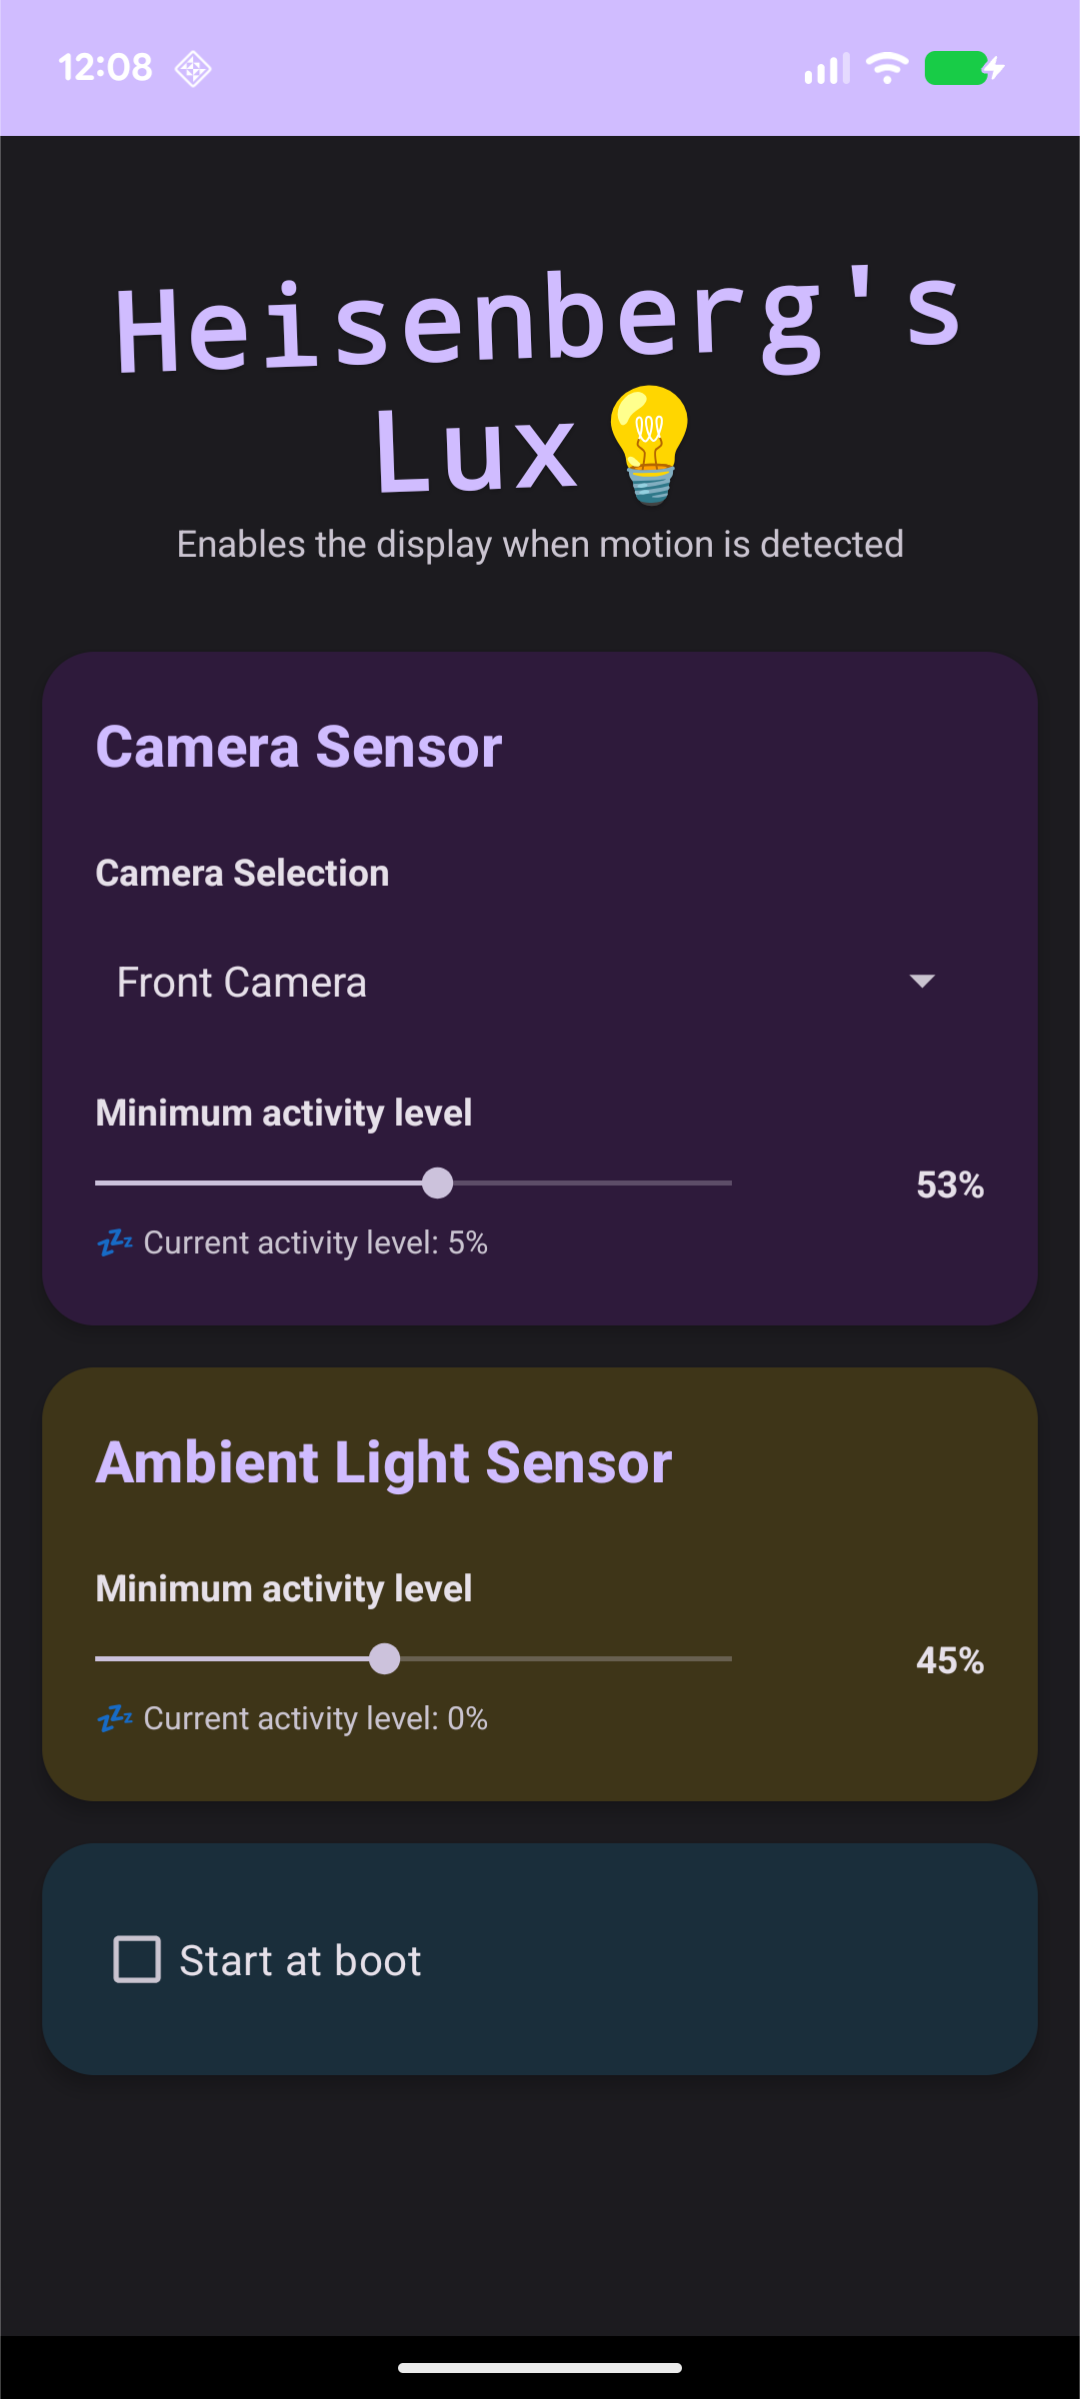
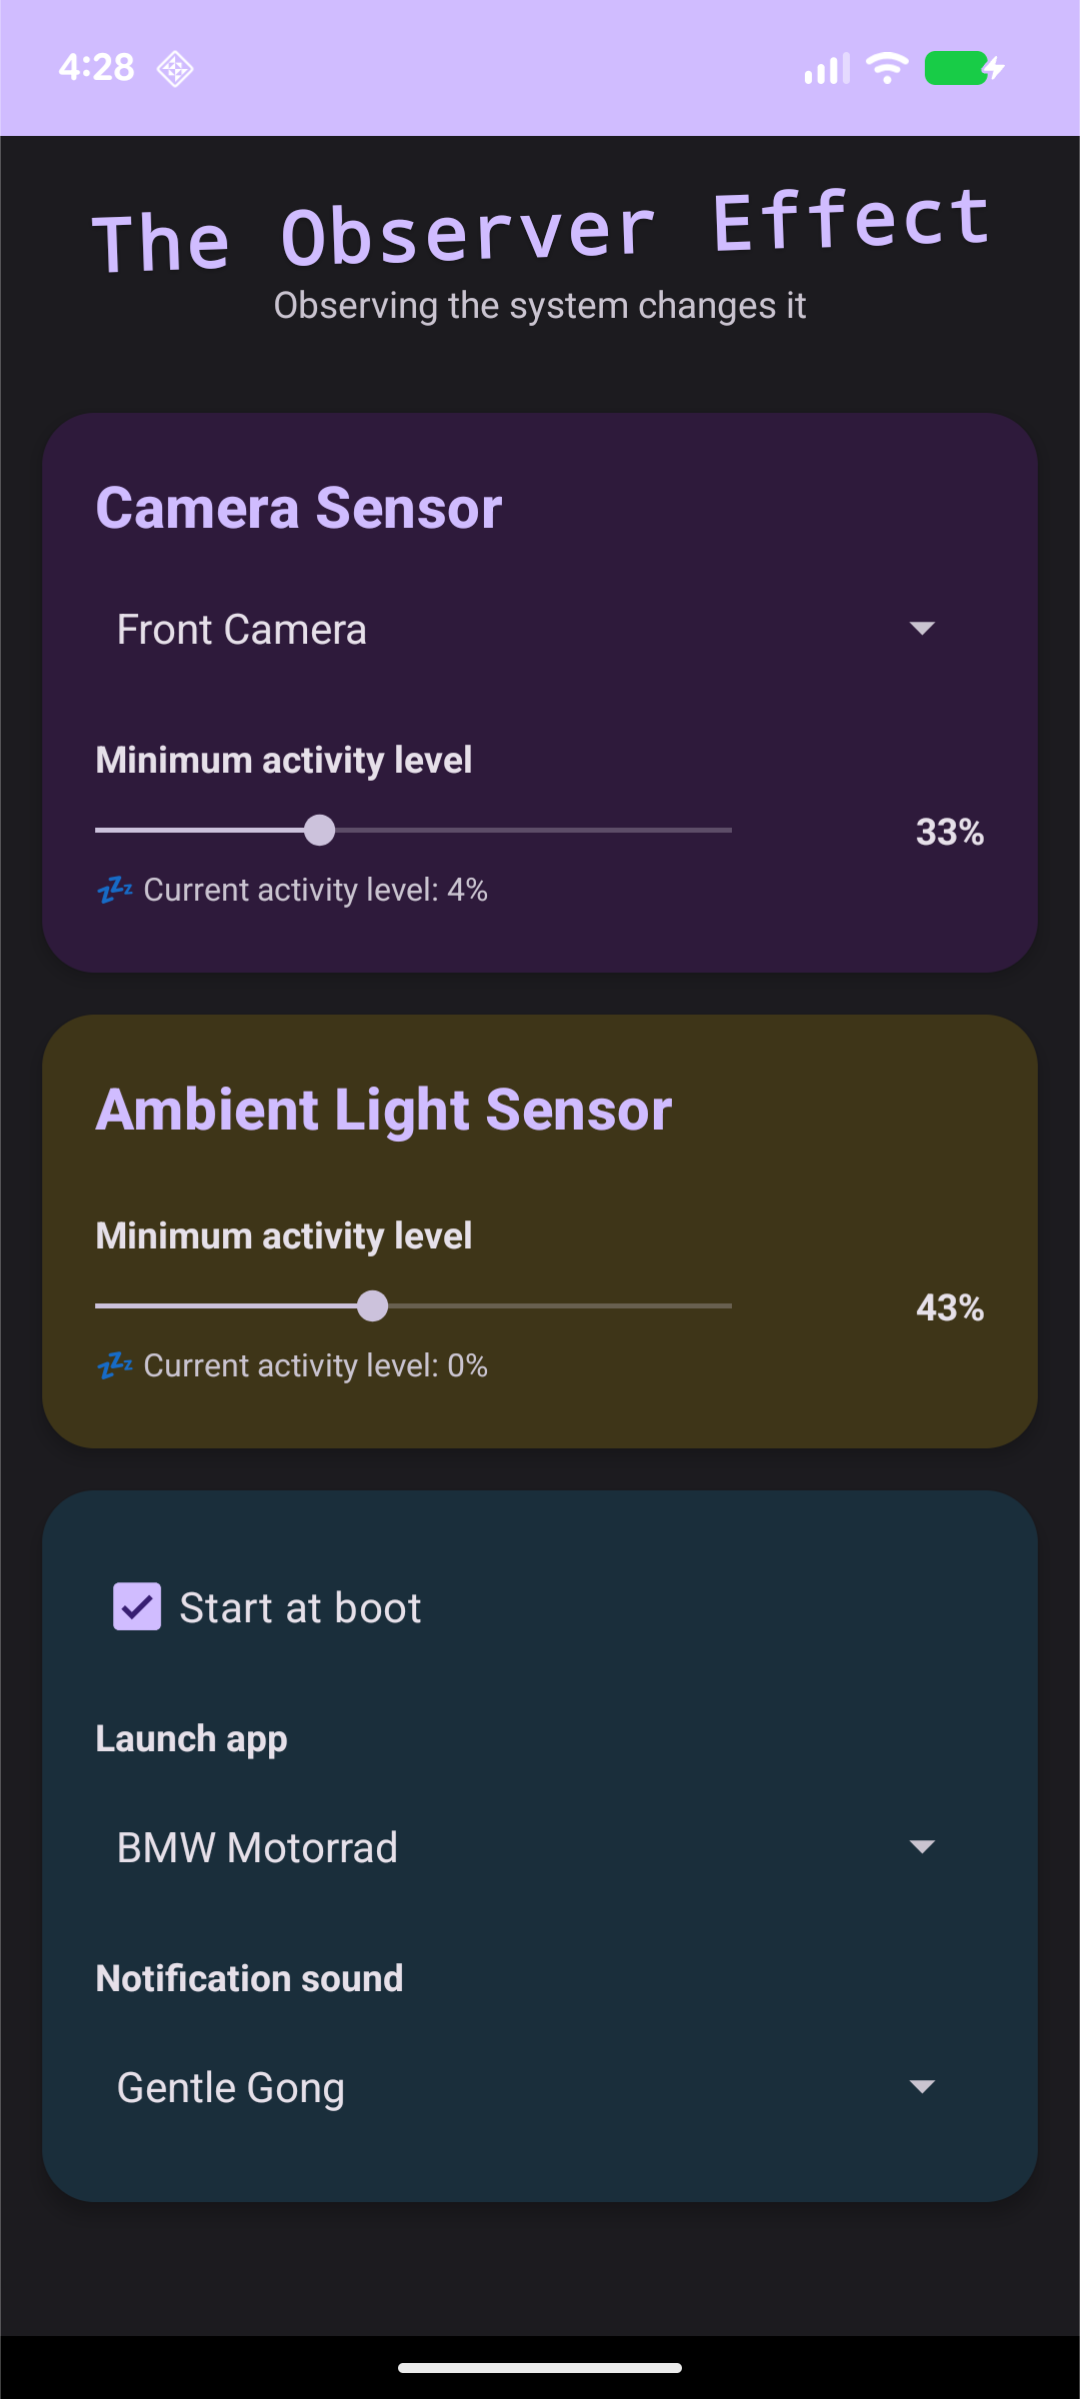
Rename to The Observer Effect

diff --git a/app/src/main/kotlin/com/heisenberg/lux/MainActivity.kt b/app/src/main/kotlin/com/heisenberg/lux/MainActivity.kt
@@ -65,7 +65,7 @@ class MainActivity : AppCompatActivity() {
 
         prefs = getSharedPreferences(PREFS_NAME, MODE_PRIVATE)
 
-        // On first run, detect and save default camera (but keep sensitivity at 0 for safety)
+        // On first run, detect and save defaults (but keep sensitivity at 0 for safety)
         val isFirstRun = !prefs.contains(KEY_CAMERA_SELECTION)
         if (isFirstRun) {
             val defaultCamera = getDefaultCamera()
@@ -78,8 +78,8 @@ class MainActivity : AppCompatActivity() {
         val cameraSensitivity = prefs.getInt(KEY_CAMERA_SENSITIVITY, 0)
         val lightSensitivity = prefs.getInt(KEY_LIGHT_SENSITIVITY, 0)
         val startAtBoot = prefs.getBoolean(KEY_START_AT_BOOT, false)
-        val unlockScreen = prefs.getBoolean(KEY_BYPASS_LOCK_SCREEN, true)
         val launchApp = prefs.getString(KEY_LAUNCH_APP, "") ?: ""
+        val notificationSound = prefs.getString(KEY_NOTIFICATION_SOUND, "") ?: ""
 
         with(binding) {
             // Setup camera spinner
@@ -198,13 +198,6 @@ class MainActivity : AppCompatActivity() {
                 Log.i(TAG, "Start at boot set to $isChecked")
             }
 
-            // Setup unlock screen checkbox
-            unlockScreenCheckbox?.isChecked = unlockScreen
-            unlockScreenCheckbox?.setOnCheckedChangeListener { _, isChecked ->
-                prefs.edit().putBoolean(KEY_BYPASS_LOCK_SCREEN, isChecked).apply()
-                Log.i(TAG, "Unlock screen set to $isChecked")
-            }
-
             // Setup launch app spinner
             val installedApps = getLaunchableApps()
             val appNames = mutableListOf(getString(R.string.launch_app_none))
@@ -233,6 +226,39 @@ class MainActivity : AppCompatActivity() {
                         val selectedPackage = appPackages[position]
                         prefs.edit().putString(KEY_LAUNCH_APP, selectedPackage).apply()
                         Log.i(TAG, "Launch app set to $selectedPackage")
+                    }
+
+                    override fun onNothingSelected(parent: AdapterView<*>?) {}
+                }
+
+            // Setup notification sound spinner
+            val notificationSounds = getNotificationSounds()
+            val soundNames = mutableListOf(getString(R.string.notification_sound_none))
+            val soundUris = mutableListOf("")
+            notificationSounds.forEach { (name, uri) ->
+                soundNames.add(name)
+                soundUris.add(uri)
+            }
+
+            val soundAdapter = ArrayAdapter(this@MainActivity, android.R.layout.simple_spinner_item, soundNames)
+            soundAdapter.setDropDownViewResource(android.R.layout.simple_spinner_dropdown_item)
+            notificationSoundSpinner?.adapter = soundAdapter
+
+            // Set current selection
+            val currentSoundIndex = soundUris.indexOf(notificationSound).coerceAtLeast(0)
+            notificationSoundSpinner?.setSelection(currentSoundIndex)
+
+            notificationSoundSpinner?.onItemSelectedListener =
+                object : AdapterView.OnItemSelectedListener {
+                    override fun onItemSelected(
+                        parent: AdapterView<*>?,
+                        view: View?,
+                        position: Int,
+                        id: Long,
+                    ) {
+                        val selectedUri = soundUris[position]
+                        prefs.edit().putString(KEY_NOTIFICATION_SOUND, selectedUri).apply()
+                        Log.i(TAG, "Notification sound set to $selectedUri")
                     }
 
                     override fun onNothingSelected(parent: AdapterView<*>?) {}
@@ -450,15 +476,35 @@ class MainActivity : AppCompatActivity() {
             .sortedBy { it.loadLabel(pm).toString().lowercase() }
     }
 
+    private fun getNotificationSounds(): List<Pair<String, String>> {
+        val sounds = mutableListOf<Pair<String, String>>()
+        val ringtoneManager = android.media.RingtoneManager(this)
+        ringtoneManager.setType(android.media.RingtoneManager.TYPE_NOTIFICATION)
+        val cursor = ringtoneManager.cursor
+
+        try {
+            while (cursor.moveToNext()) {
+                val title = cursor.getString(android.media.RingtoneManager.TITLE_COLUMN_INDEX)
+                val uri = ringtoneManager.getRingtoneUri(cursor.position).toString()
+                sounds.add(Pair(title, uri))
+            }
+        } catch (e: Exception) {
+            Log.e(TAG, "Error loading notification sounds", e)
+        }
+
+        return sounds.sortedBy { it.first.lowercase() }
+    }
+
     companion object {
         private const val TAG = "MainActivity"
-        const val PREFS_NAME = "HeisenbergLuxPrefs"
+        const val PREFS_NAME = "ObserverEffectPrefs"
         const val KEY_CAMERA_SELECTION = "camera_selection"
         const val KEY_CAMERA_SENSITIVITY = "camera_sensitivity"
         const val KEY_LIGHT_SENSITIVITY = "light_sensitivity"
         const val KEY_START_AT_BOOT = "start_at_boot"
         const val KEY_BYPASS_LOCK_SCREEN = "bypass_lock_screen"
         const val KEY_LAUNCH_APP = "launch_app"
+        const val KEY_NOTIFICATION_SOUND = "notification_sound"
 
         const val CAMERA_NONE = 0
         const val CAMERA_REAR = 1

diff --git a/app/src/main/kotlin/com/heisenberg/lux/DetectionService.kt b/app/src/main/kotlin/com/heisenberg/lux/DetectionService.kt
@@ -77,7 +77,7 @@ class DetectionService : Service(), LifecycleOwner {
         wakeLock =
             powerManager.newWakeLock(
                 PowerManager.SCREEN_BRIGHT_WAKE_LOCK or PowerManager.ACQUIRE_CAUSES_WAKEUP,
-                "HeisenbergLux::WakeLock",
+                "ObserverEffect::WakeLock",
             )
 
         // Register screen on/off receiver
@@ -266,19 +266,26 @@ class DetectionService : Service(), LifecycleOwner {
                 wakeLock.acquire(WAKE_DURATION_MS)
                 // Don't call release() - the timeout handles it automatically
 
-                // Dismiss keyguard if user has enabled bypass lock screen
-                val unlockScreen = prefs.getBoolean(MainActivity.KEY_BYPASS_LOCK_SCREEN, true)
-                if (unlockScreen) {
-                    if (keyguardManager.isKeyguardLocked) {
-                        Log.i(TAG, "Bypassing lock screen via transparent activity")
-                        // Launch a transparent activity that shows on lock screen and dismisses itself
-                        val intent = Intent(this, UnlockActivity::class.java).apply {
-                            addFlags(Intent.FLAG_ACTIVITY_NEW_TASK)
-                            addFlags(Intent.FLAG_ACTIVITY_NO_ANIMATION)
-                        }
-                        startActivity(intent)
+                // Play notification sound if configured
+                val notificationSoundUri = prefs.getString(MainActivity.KEY_NOTIFICATION_SOUND, "") ?: ""
+                if (notificationSoundUri.isNotEmpty()) {
+                    try {
+                        val ringtone = android.media.RingtoneManager.getRingtone(this, android.net.Uri.parse(notificationSoundUri))
+                        ringtone?.play()
+                        Log.i(TAG, "Playing notification sound: $notificationSoundUri")
+                    } catch (e: Exception) {
+                        Log.e(TAG, "Error playing notification sound", e)
                     }
                 }
+
+                // Always launch unlock activity to dismiss lock screen and/or launch app
+                val launchApp = prefs.getString(MainActivity.KEY_LAUNCH_APP, "") ?: ""
+                Log.i(TAG, "Launching unlock activity (app=$launchApp, locked=${keyguardManager.isKeyguardLocked})")
+                val intent = Intent(this, UnlockActivity::class.java).apply {
+                    addFlags(Intent.FLAG_ACTIVITY_NEW_TASK)
+                    addFlags(Intent.FLAG_ACTIVITY_NO_ANIMATION)
+                }
+                startActivity(intent)
             }
         } catch (e: Exception) {
             Log.e(TAG, "Error waking screen", e)

diff --git a/README.md b/README.md
@@ -1,10 +1,12 @@
-# Heisenberg's Lux
+# The Observer Effect
 
 I wanted my wall-mounted home automation tablets to light up as I walked by. This app wakes the screen when it detects motion or light changes, and can optionally launch any app you want.
 
 Works great for Home Assistant dashboards, Alarmo alarm panels, or any app you want to see when you approach a mounted tablet. No more tapping the screen to wake it.
 
-The name is a nod to Heisenberg's uncertainty principle (you can't observe without affecting the system) combined with "lux" (the SI unit for illuminance).
+Similar concept to [Yakk](https://yakk.bkappz.com/), but open-source and with more sensors (camera + light) and the ability to auto-unlock and launch apps.
+
+The name refers to the observer effect in physics, where the act of observation changes what is being observed—in this case, your approach to the tablet causes it to wake up.
 
 ## Screenshots
 
@@ -24,6 +26,16 @@ The name is a nod to Heisenberg's uncertainty principle (you can't observe witho
 - Start at boot for set-and-forget operation
 - Material Design 3 with dark mode and tablet layouts
 - Full accessibility support with TalkBack
+
+## Setup Recommendations
+
+**For best results, disable your device's lock screen security:**
+
+Go to **Settings → Security → Screen Lock** and set it to **"None"** or **"Swipe"**.
+
+**Why?** Android's security model prevents apps from bypassing PIN, pattern, or biometric authentication. If you have secure lock screen enabled, the app will wake the screen but you'll still need to authenticate manually. For wall-mounted tablets that don't leave your home, disabling the lock screen provides the smoothest experience.
+
+If you need security, consider using Smart Lock (Settings → Security → Smart Lock) with trusted locations or devices instead.
 
 ## Building
 

diff --git a/CLAUDE.md b/CLAUDE.md
@@ -4,7 +4,7 @@ This file provides guidance to Claude Code (claude.ai/code) when working with co
 
 ## Project Overview
 
-**Heisenberg's Lux** is a minimalist Android app (Kotlin, min SDK 26) that wakes the device screen when motion or ambient light changes are detected. The name is a playful reference to Heisenberg's uncertainty principle (you can't observe without affecting the system) combined with "lux" (the SI unit for illuminance). The app is designed as a canonical example of modern Android development with minimal dependencies and maximum simplicity.
+**Observer Effect** (displayed as "The Observer Effect" in the app) is a minimalist Android app (Kotlin, min SDK 26) that wakes the device screen when motion or ambient light changes are detected. The name refers to the observer effect in physics, where the act of observation changes what is being observed—in this case, your approach to the tablet causes it to wake up. The app is designed as a canonical example of modern Android development with minimal dependencies and maximum simplicity.
 
 **Core Philosophy**: Simplicity, robustness, minimal dependencies. Use traditional Android Views, not Jetpack Compose. This app should be elegant enough to serve as a reference implementation.
 
